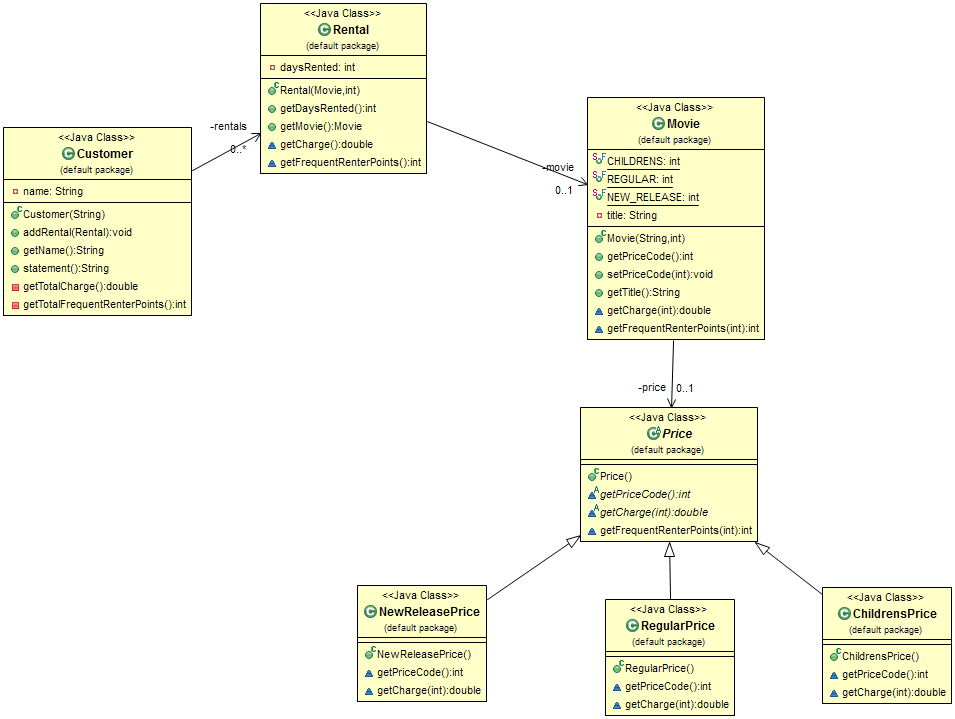
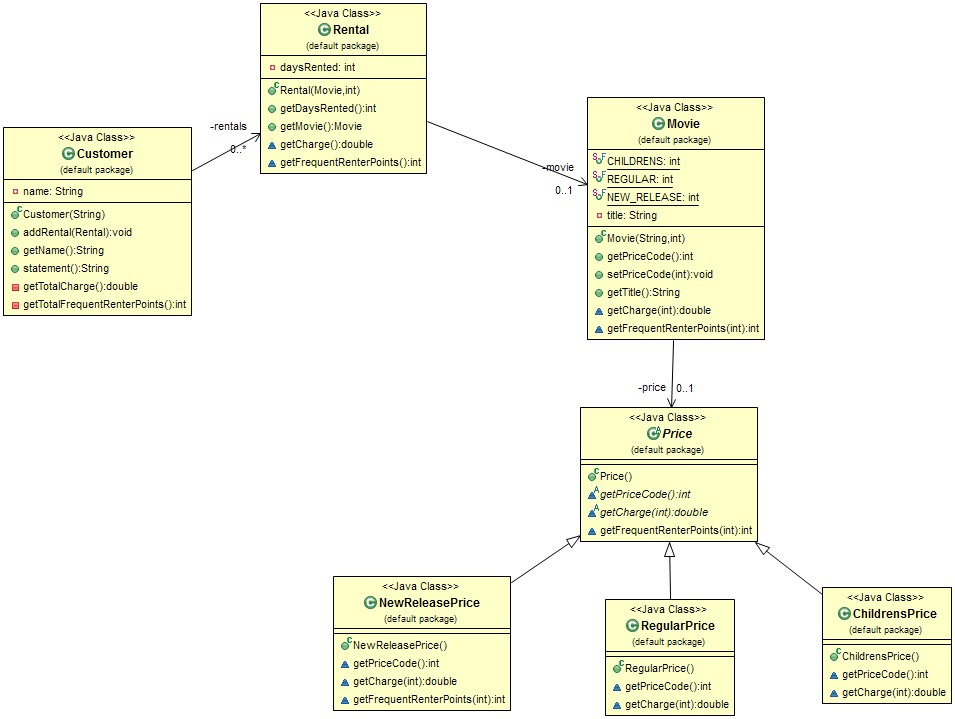
Change: Used "Replace Conditional with Polymorphism" Refactoring on getFrequentRenterPoints to remove if ; Updated Metrics and Class Diagram Bad Smell: The last step to remove the Conditional from getFrequentRenterPoints

Changed region(s): [[0.334, 0.7955, 0.5466, 1.0]]

diff --git a/src/Price.java b/src/Price.java
@@ -4,10 +4,6 @@ public abstract class Price {
 	abstract double getCharge(int daysRented);
 	
 	int getFrequentRenterPoints( int daysRented) {
-		if((getPriceCode() == Movie.NEW_RELEASE) && daysRented > 1) {
-			return 2;
-		} else {
 			return 1;
-		}
 	}
 }

diff --git a/src/NewReleasePrice.java b/src/NewReleasePrice.java
@@ -11,4 +11,8 @@ public class NewReleasePrice extends Price {
 	    return daysRented * 3;
 	}
 
+	@Override
+	int getFrequentRenterPoints(int daysRented) {
+		return (daysRented > 1) ? 2 : 1;
+	}
 }
